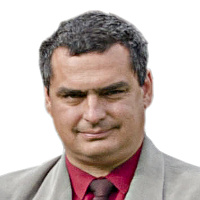
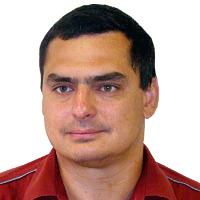
Aktualizovan seznam UKFO

diff --git a/html/uvfo.html b/html/uvfo.html
@@ -50,41 +50,12 @@ Univerzita Hradec Králové, Rokitanského 62, 500 03 Hradec Králové
 
 <div class="row">
 <div class="col-xs-4 col-sm-5 col-md-4 col-lg-3">
+	<img src="/pic/ukfo/kabrhel.jpg" alt="Pavel Kabrhel">
 </div>
 <div class="col-xs-8 col-sm-7 col-md-8 col-lg-9">
 <p>
-<strong>Doc. RNDr. Zdeněk Kluiber, CSc., Ph.D.</strong> <br />
-<em>zástupce JČMF</em><br />
-Univerzita Hradec Králové, Rokitanského 62, 500 03 Hradec Králové
-</p>
-</div>
-</div>
-<hr>
-
-<div class="row">
-<div class="col-xs-4 col-sm-5 col-md-4 col-lg-3">
-	<img src="/pic/ukfo/sedivy.jpg" alt="Přemysl Šedivý">
-</div>
-<div class="col-xs-8 col-sm-7 col-md-8 col-lg-9">
-<p>
-<strong>PaedDr. Přemysl Šedivý</strong><br />
-<em>redakce úloh a tisků</em><br />
-<a href="mailto:premysls(z@vinac)seznam.cz">premysls@seznam.cz</a><br>
-Kalendova 625, 500 04 Hradec Králové
-</p>
-</div>
-</div>
-<hr>
-
-<div class="row">
-<div class="col-xs-4 col-sm-5 col-md-4 col-lg-3">
-	<img src="/pic/ukfo/jaresova.jpg" alt="Miroslava Jarešová">
-</div>
-<div class="col-xs-8 col-sm-7 col-md-8 col-lg-9">
-<p>
-<strong>PhDr. Miroslava Jarešová, Ph.D.</strong><br />
-<em>členka předsednictva</em><br />
-SPŠ Chrudim, Čáslavská 973, 537 01 Chrudim
+<strong>Mgr. Pavel Kabrhel</strong><br>
+<em>jednatel</em><br />
 </p>
 </div>
 </div>
@@ -94,6 +65,7 @@ SPŠ Chrudim, Čáslavská 973, 537 01 Chrudim
 
 <div class="row">
 <div class="col-xs-4 col-sm-5 col-md-4 col-lg-3">
+	<img src="/pic/ukfo/blazek.jpg" alt="Josef Blažek">
 </div>
 <div class="col-xs-8 col-sm-7 col-md-8 col-lg-9">
 <p>
@@ -160,18 +132,6 @@ Buková 2541/14, 130 00 Praha 3
 
 <div class="row">
 <div class="col-xs-4 col-sm-5 col-md-4 col-lg-3">
-	<img src="/pic/ukfo/kabrhel.jpg" alt="Pavel Kabrhel">
-</div>
-<div class="col-xs-8 col-sm-7 col-md-8 col-lg-9">
-<p>
-<strong>Mgr. Pavel Kabrhel</strong>
-</p>
-</div>
-</div>
-<hr>
-
-<div class="row">
-<div class="col-xs-4 col-sm-5 col-md-4 col-lg-3">
 	<img src="/pic/ukfo/houstek.jpg" alt="Jan Houštěk">
 </div>
 <div class="col-xs-8 col-sm-7 col-md-8 col-lg-9">
@@ -221,7 +181,7 @@ Pod Harfou 938/38, 190 00 Praha 9 &ndash; Vysočany
 
 <div class="row">
 <div class="col-xs-4 col-sm-5 col-md-4 col-lg-3">
-	<img src="/pic/ukfo/polma.jpg" alt="Jan Houštěk">
+	<img src="/pic/ukfo/polma.jpg" alt="Richard Polma">
 </div>
 <div class="col-xs-8 col-sm-7 col-md-8 col-lg-9">
 <p>
@@ -229,6 +189,18 @@ Pod Harfou 938/38, 190 00 Praha 9 &ndash; Vysočany
 <a href="mailto:risa.student@seznam.cz">risa.student@seznam.cz</a><br>
 Palachovy koleje 1137,
 Hradec Králové
+</p>
+</div>
+</div>
+<hr>
+
+<div class="row">
+<div class="col-xs-4 col-sm-5 col-md-4 col-lg-3">
+	<img src="/pic/ukfo/slegr.jpg" alt="Jan Šlégr">
+</div>
+<div class="col-xs-8 col-sm-7 col-md-8 col-lg-9">
+<p>
+<strong>RNDr. Jan Šlégr, Ph.D.</strong>
 </p>
 </div>
 </div>
@@ -312,12 +284,13 @@ První české gymnázium, Národní 25, 360 20 Karlovy Vary
 
 <div class="row">
 <div class="col-xs-4 col-sm-5 col-md-4 col-lg-3">
+	<img src="/pic/ukfo/vlasakova.jpg" alt="Jana Vlasáková">
 </div>
 <div class="col-xs-8 col-sm-7 col-md-8 col-lg-9">
 <p>
-	<strong>doc. RNDr. Dušan Novotný, CSc.</strong> (Ústecký kraj)<br>
-	<a href="mailto:novotnyd@sci.ujep.cz">novotnyd@sci.ujep.cz</a><br>
-	Katedra fyziky, Přírodovědecká fakulta UJEP, České Mládeže 8, 400 11 Ústí nad Labem
+	<strong>Mgr. Jana Vlasáková</strong> (Ústecký kraj)<br>
+	<a href="mailto:vlasakova@gymrumburk.cz">vlasakova@gymrumburk.cz</a><br>
+	Gymnázium Rumburk, Komenského 10, 408 01 Rumburk
 </p>
 </div>
 </div>
@@ -411,9 +384,9 @@ Katedra experimentální fyziky, PřF UP Olomouc, Třída 17. listopadu 1192/12,
 </div>
 <div class="col-xs-8 col-sm-7 col-md-8 col-lg-9">
 <p>
-<strong>Štěpánka Macháčková</strong> (Moravskoslezský kraj)<br />
-<a href="mailto:smachackova@svcoo.cz">smachackova@svcoo.cz</a><br>
-Středisko volného času, Ostrčilova 19/2925, 702 00 Ostrava – Moravská Ostrava
+<strong>RNDr. Radmila Horáková</strong> (Moravskoslezský kraj)<br />
+<a href="mailto:rhorakova@gmk.cz">rhorakova@gmk.cz</a><br>
+Gymnázium Mikuláše Koperníka, Bílovec, 17. listopadu 526, 743 01 Bílovec
 </p>
 </div>
 </div>
@@ -421,6 +394,7 @@ Středisko volného času, Ostrčilova 19/2925, 702 00 Ostrava – Moravská Ost
 
 <div class="row">
 <div class="col-xs-4 col-sm-5 col-md-4 col-lg-3">
+	<img src="/pic/ukfo/bursova.jpg" alt="Jana Buršová">
 </div>
 <div class="col-xs-8 col-sm-7 col-md-8 col-lg-9">
 <p>
